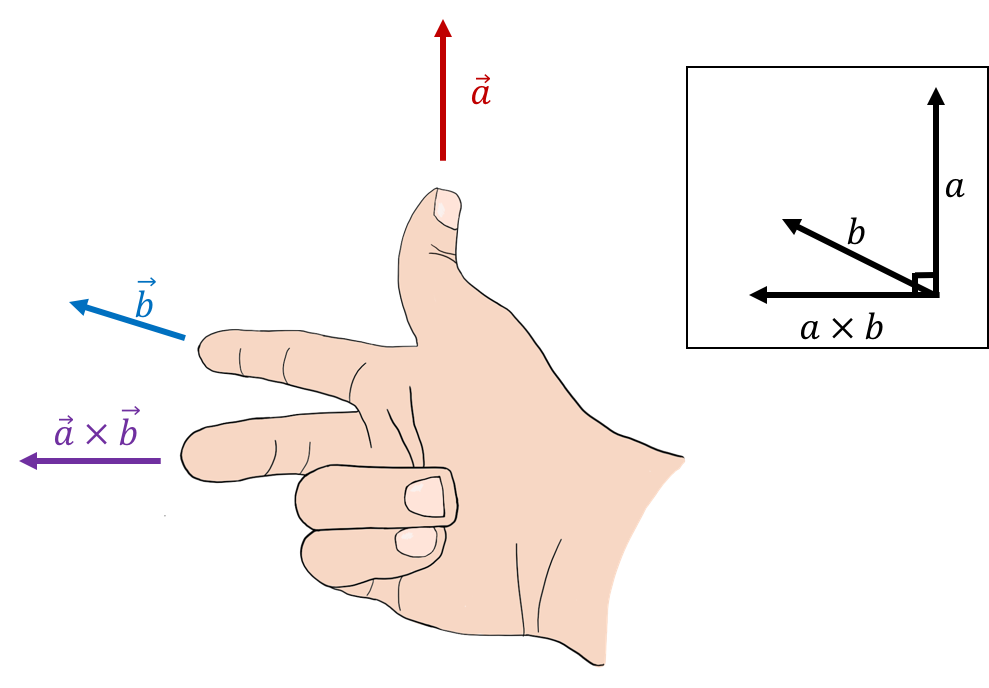
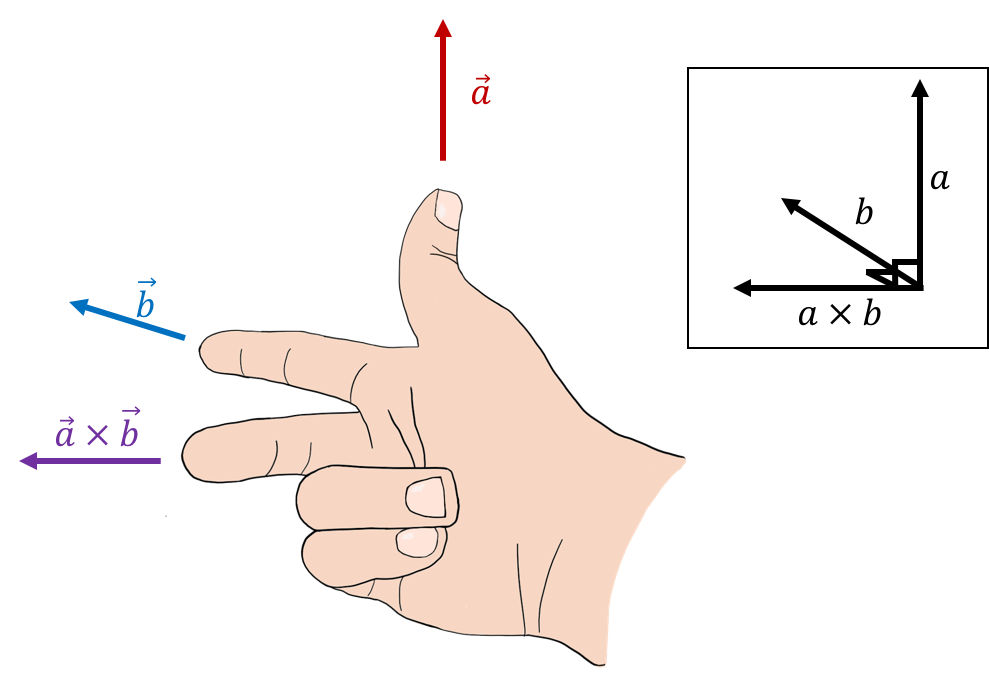
Fixes and Vector additions

diff --git a/tex/Vectors.tex b/tex/Vectors.tex
@@ -262,7 +262,8 @@ The unit vectors that define a coordinate system have the following properties r
 \vec y \times \vec z &= \vec x\\
 \vec z \times \vec x &= \vec y\\
 \end{align*}
-For these properties to be correct, it should be noted that the direction of the $z$ axis in three dimensions is specified by the choice of $x$ and $y$ axes. That is, one can freely choose the direction of the $x$ and $y$ axes, which then define a plane to which the $z$ axis will be perpendicular. The direction of the $z$ axis must be chosen so that $\vec x \times \vec y = \vec z$ (this guarantees that the coordinate system is ``right handed''). 
+For these properties to be correct, it should be noted that the direction of the $z$ axis in three dimensions is specified by the choice of $x$ and $y$ axes. That is, one can freely choose the direction of the $x$ and $y$ axes, which then define a plane to which the $z$ axis will be perpendicular. The direction of the $z$ axis must be chosen so that $\vec x \times \vec y = \vec z$ (this guarantees that the coordinate system is ``right handed''), as in Figure \ref{fig:Vectors:xyzaxis}.
+\capfig{0.5\textwidth}{figures/Vectors/xyzaxis.png}{\label{fig:Vectors:xyzaxis}Two possible orientations for a three dimensional coordinate system. You can confirm using the right hand rule that the $z$ axis is the cross product $\vec x \times \vec y$.}
 
 \section{Example uses of vectors in physics}
 This section gives a quick overview of some applications of vectors in physics.

diff --git a/tex/FluidMechanics.tex b/tex/FluidMechanics.tex
@@ -774,7 +774,7 @@ y_0=\frac{\SI{13457}{Pa}+\SI{1}{atm}-\SI{1}{atm}}{(\SI{997}{kg/m^3})(\SI{9.8}{m/
 y_0=\frac{\SI{13457}{Pa}}{(\SI{997}{kg/m^3})(\SI{9.8}{m/s^2})}\\
 y_0=\SI{1.4}{m}
 \end{align*}
-\therefore the IV bag must be placed at least $\SI{1.4}{m}$ above the patient's arm. 
+Therefore, the IV bag must be placed at least $\SI{1.4}{m}$ above the patient's arm. 
 
   
 \end{enumerate}
